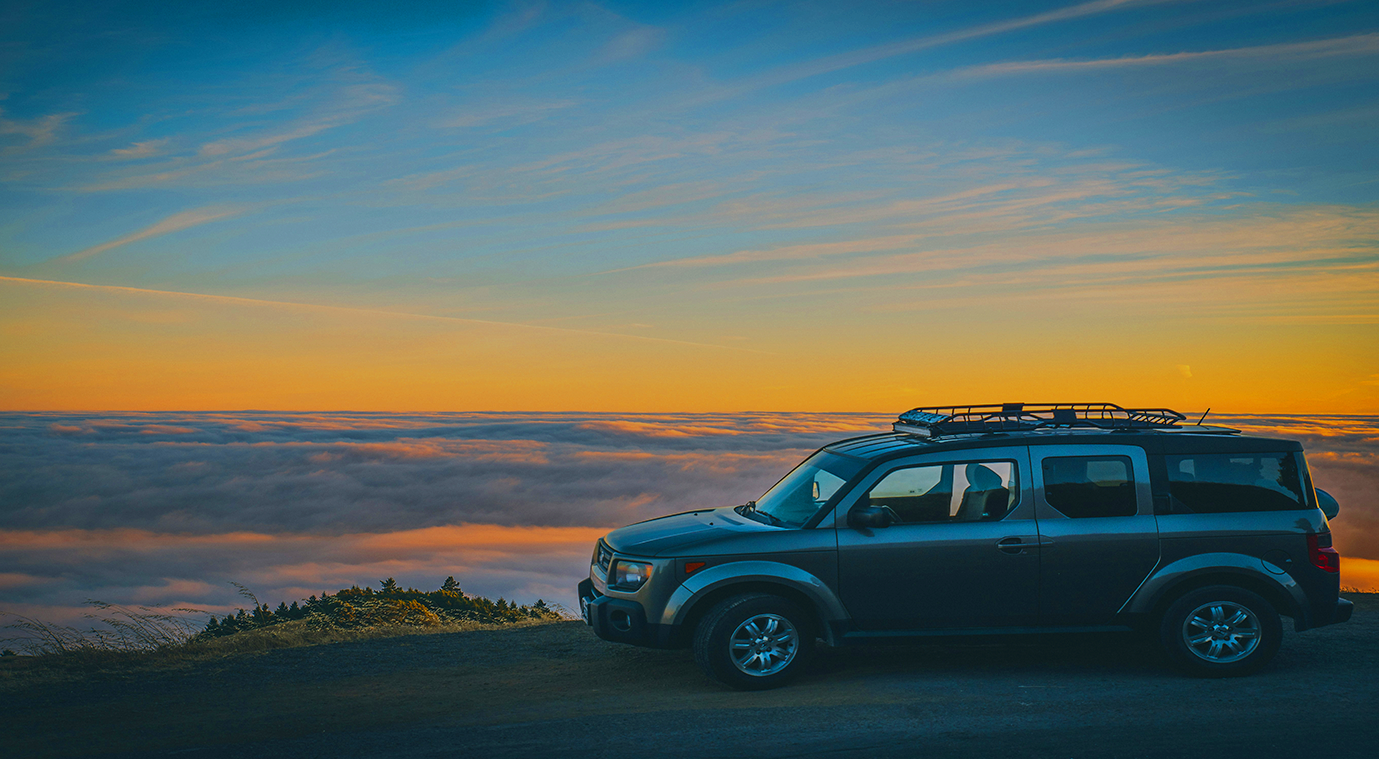
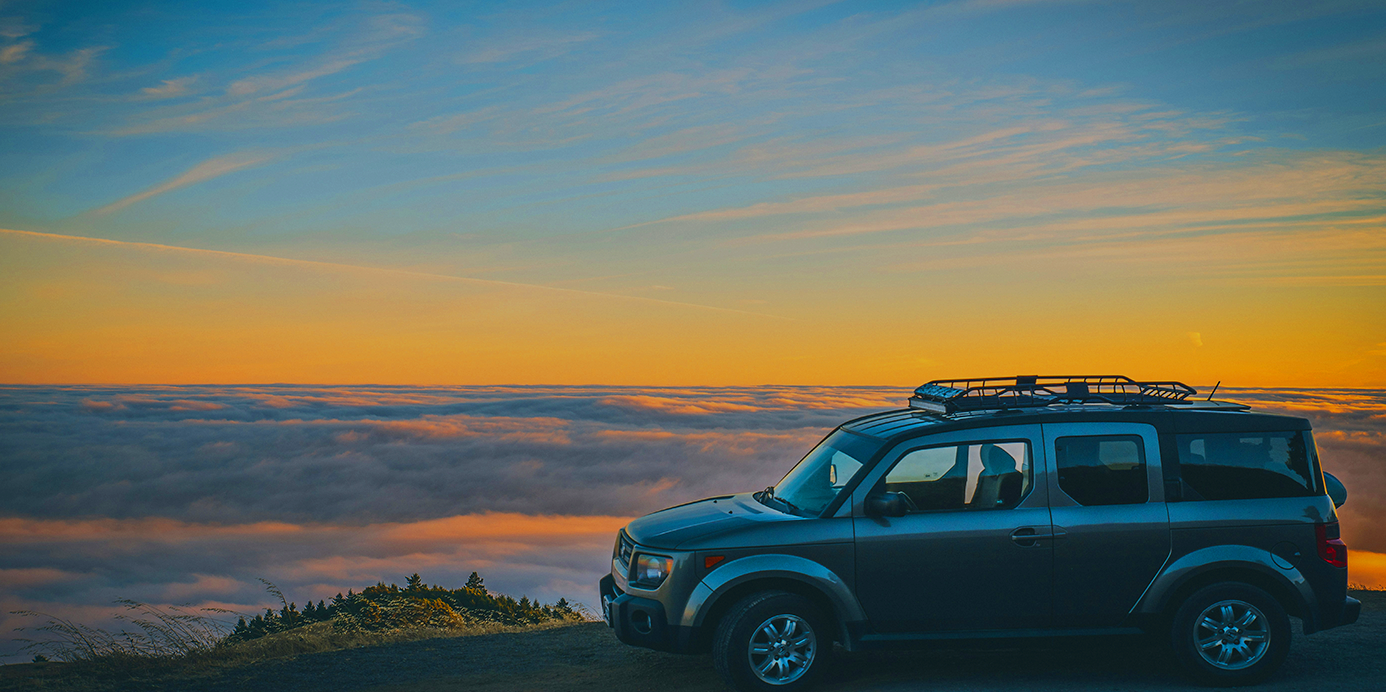
modificacion Indice

diff --git a/nosotros.html b/nosotros.html
@@ -39,21 +39,87 @@
 
 
         <div class="principal">
-            <h1 class="h1-principal">Sobre Nosotros</h1>
+            <h1 class="h1-principal">Rodásmart</h1>
                 
-            <p class="p-principal">Aquí podrán encontrar un resumen de todo el proceso que hemos 
-                llevado a cabo, desde nuestras primeras ideas hasta la realización de 
-                nuestros proyectos. Nuestro objetivo es brindarles un recorrido claro 
-                y conciso por nuestro trabajo, mostrando cada paso que hemos dado.
+            <p class="p-principal">
+                Te damos la bienvenida a el resumen detallado que abarca todo el proceso que hemos seguido para llevar a cabo nuestro proyecto. 
+                Desde la concepción de nuestras primeras ideas, hasta la materialización de nuestros proyectos, hemos recorrido un camino lleno de aprendizaje 
+                y crecimiento. Nuestro objetivo es proporcionarte un recorrido claro y conciso a través de nuestro trabajo, destacando cada paso significativo 
+                que hemos dado en este viaje. Esperamos que disfrutes de este vistazo a nuestro esfuerzo y dedicación.¡Bienvenido a bordo!
             </p>
 
             <a href="https://www.canva.com/design/DAGC6UNs_r4/q5vPww6ZKoM_7Wmif-R1_w/view?utm_content=DAGC6UNs_r4&utm_campaign=designshare&utm_medium=link&utm_source=editor">Más Información</a>
-            
         </div>
         
+        <div class="anteIndice"></div>
         
         <div class="SobreElProyecto">
-            <h2>Sobre nuestro Proyecto</h2>
+
+            <div class="equipo">
+                <h2><span class="color1">conformación </span><span class="color2">del equipo</span></h2>
+                <p>
+                    Somos un grupo de estudiantes de segundo año de 
+                    la Tecnicatura en Desarrollo de Software del Instituto de 
+                    Formación Técnica Superior Nº 24, en la ciudad de Buenos Aires. 
+                    A través de esta plataforma, queremos compartir con ustedes el 
+                    emocionante viaje que hemos emprendido en nuestro aprendizaje y 
+                    desarrollo de proyectos.
+                    <br>
+                    <br>
+                    Nuestro equipo está compuesto por:
+                    
+                </p>
+                <div>
+                    <div class="nombresIzq">
+                        <br>
+                        <h3><span class="color1">Girett </span><span class="color2">Leonel</span></h3>
+                        <br>
+                        <h3><span class="color1">Berrios </span><span class="color2">Daniela</span></h3>
+                        <br>
+                        <h3><span class="color1">Torrico </span><span class="color2">Martin</span></h3>
+                        <br>
+                    </div>
+                    <div class="nombresDer">
+                        <br>
+                        <h3><span class="color1">Bueno </span><span class="color2">Karen</span></h3>
+                        <br>
+                        <h3><span class="color1">Ramirez </span><span class="color2">Luis</span></h3>
+                        <br>
+                        <h3><span class="color1">Gaston </span><span class="color2">Joel</span></h3>
+                        <br>
+                    </div>
+                </div>
+            </div>
+
+            <div class="indice">
+                <h2>Sobre nuestro Proyecto</h2>
+
+                <h1>índice</h1>
+
+                <div class="indiceH3yH4">
+                    <h3>etapa de Relevamiento</h3>
+                    <h4>Relevamiento de funcionalidades</h4>
+                    <h4>Casos de uso</h4>
+                    <h3>etapa de planificación</h3>
+                    <h4>Historia de Usuario</h4>
+                    <h4>Diagrama de Gant</h4>
+                    <h4>Mapa de navegación</h4>
+                    <h4>Diagrama de Clases</h4>
+                    <h4>Diagrama de Relación-Entidad</h4>
+                    <h3>Etapa de Diseño</h3>
+                    <h4>Historia del Branding</h4>
+                    <h4>Wireframes</h4>
+                    <h4>Video Promocional</h4>
+                    <h3>Etapa de Desarrollo</h3>
+                    <h4>Solución</h4>
+                    <h4>Git</h4>
+                    <h3>Etapa de Pruebas</h3>
+                    <h4>Casos de Prueba</h4>
+                    <h3>Etapa de Entrega</h3>
+                </div>
+            </div>
+
+            <div class="imgIndice"></div>
 
         </div>
             
@@ -63,11 +129,11 @@
 
     <footer class="footer">
         <div class="redes-sociales">
-            <a href="#"><i class="bi bi-twitter"></i></a>
-            <a href="#"><i class="bi bi-facebook"></i></a>
-            <a href="#"><i class="bi bi-pinterest"></i></a>
-            <a href="#"><i class="bi bi-c-circle"></i></a>
-            <a href="#"><i class="bi bi-linkedin"></i></a>    
+            <a href="#"><i class="bi bi-twitter" style="color: white;"></i></a>
+            <a href="#"><i class="bi bi-facebook" style="color: white;"></i></a>
+            <a href="#"><i class="bi bi-pinterest" style="color: white;"></i></a>
+            <a href="#"><i class="bi bi-c-circle" style="color: white;"></i></a>
+            <a href="#"><i class="bi bi-linkedin" style="color: white;"></i></a>    
         </div>
         <p class="footer-p">Derechos reservados @2024</p>
     </footer>

diff --git a/css/nosotros.css b/css/nosotros.css
@@ -79,9 +79,9 @@
 /*pantalla principal de sobre nosotros*/
 
 .principal {
-    background-image: url(/img/intento9.png);
+    background-image: url(/img/intento11.png);
     height: 100vh;
-    width: 100vw;
+    width: 100%;
     background-repeat: no-repeat;
     /*background-attachment: fixed;*/
     background-size:cover;
@@ -90,7 +90,7 @@
 
 
 .h1-principal {
-    margin-top: 80px;
+    margin-top: 100px;
     font-size: 65px;
     line-height: 40px;
     color: rgb(255, 255, 255);
@@ -104,37 +104,91 @@
 
 
 .p-principal {
-    margin-top: 100px;
-    /*width: 900px;*/
-    font-size: 20px;
+    margin-top: 70px;
+    width: 1850px;
+    font-size: 18px;
     color:rgb(255, 255, 255);
     margin-bottom: 30px;
     text-align: end;
-    padding: 0  350px 0 600px;
+    padding: 0  350px 35px 450px;
 
 }
 
 .principal a {
     align-items: center;
     display: inline-block;/*los enlaces de tipo texto los convertimos en bloque para que el margin y padin se añadan*/
-    padding: 11px 35px; /*es lo que le da anchura de la letra al borde desde arriba y abajo y a los lados*/
-    background-color: rgb(159, 103, 58);
+    padding: 12px 35px; /*es lo que le da anchura de la letra al borde desde arriba y abajo y a los lados*/
+    background-color: #623F22;
     color:rgb(255, 255, 255);
     text-transform: none;
     border-radius: 50px;
     font-weight: bold;
-    margin-left: 1320px;
+    margin-left: 1300px;
+    margin-top: -20px;
 }
 
 .principal a:hover {
     background-color: rgba(254, 212, 175, 0.8);
 }
 
+/*Antes del indice*/
+.anteIndice{
+    background: linear-gradient(to bottom,#0A1819,#090F0F);
+    height: 100px;
+}
+
 /*Indice*/
 .SobreElProyecto {
     height: 100vh;
-    width: 100vw;
+    width: 100%;
     background-image:url(/img/indicefondo.png);
+    display: flex;
+    color: #fff;
+    justify-content: space-evenly;
+    
+}
+
+.equipo {
+    width: 500px;
+    margin-top: 250px;
+    padding-left: 130px;
+}
+
+.equipo h2{
+    padding: 20px 0;
+    font-size: 40px;
+    font-weight: lighter;
+    text-transform: uppercase;
+}
+
+.color1 {
+    color: rgb(192, 118, 21);
+    text-transform: uppercase;
+}
+
+.color2 {
+    color: rgb(255, 255, 255);
+}
+
+
+
+.indice {
+    width: 700px;
+    margin-top: 150px;
+    padding-left: 0px;
+    margin-left: 210px;
+
+}
+
+.imgIndice{
+    margin-top: 150px;
+    width: 700px;
+    height: 700px;
+    background-image: url(/img/Roadtrip.jpeg);
+    margin-right: 300px;
+    background-repeat: no-repeat;
+    /*background-attachment: fixed;*/
+    background-size:cover;
 }
 
 /* Estilos del footer */
